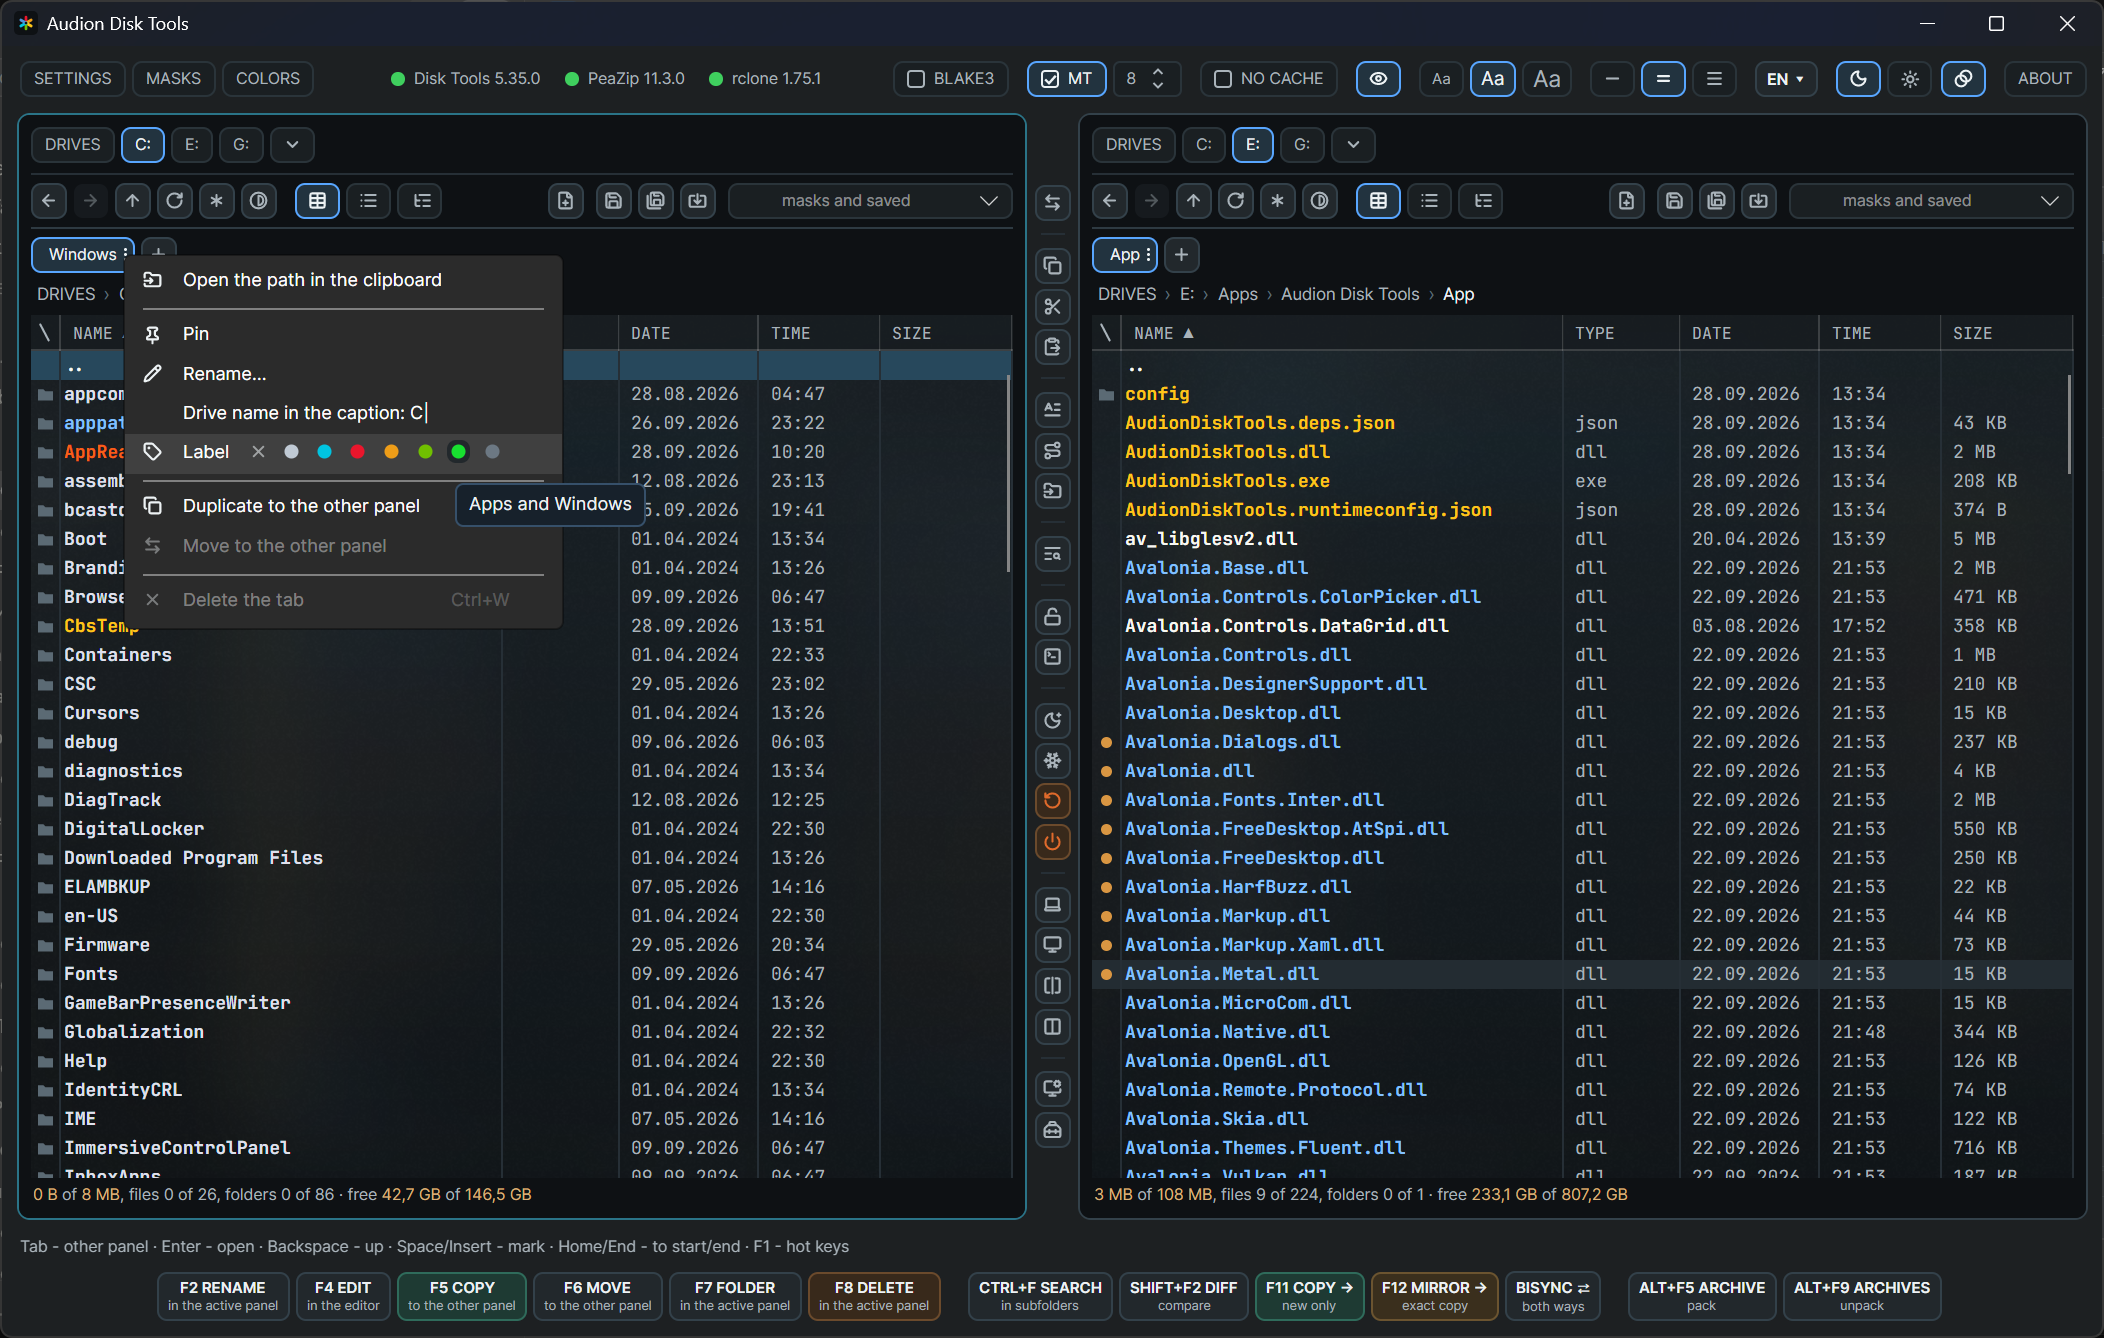
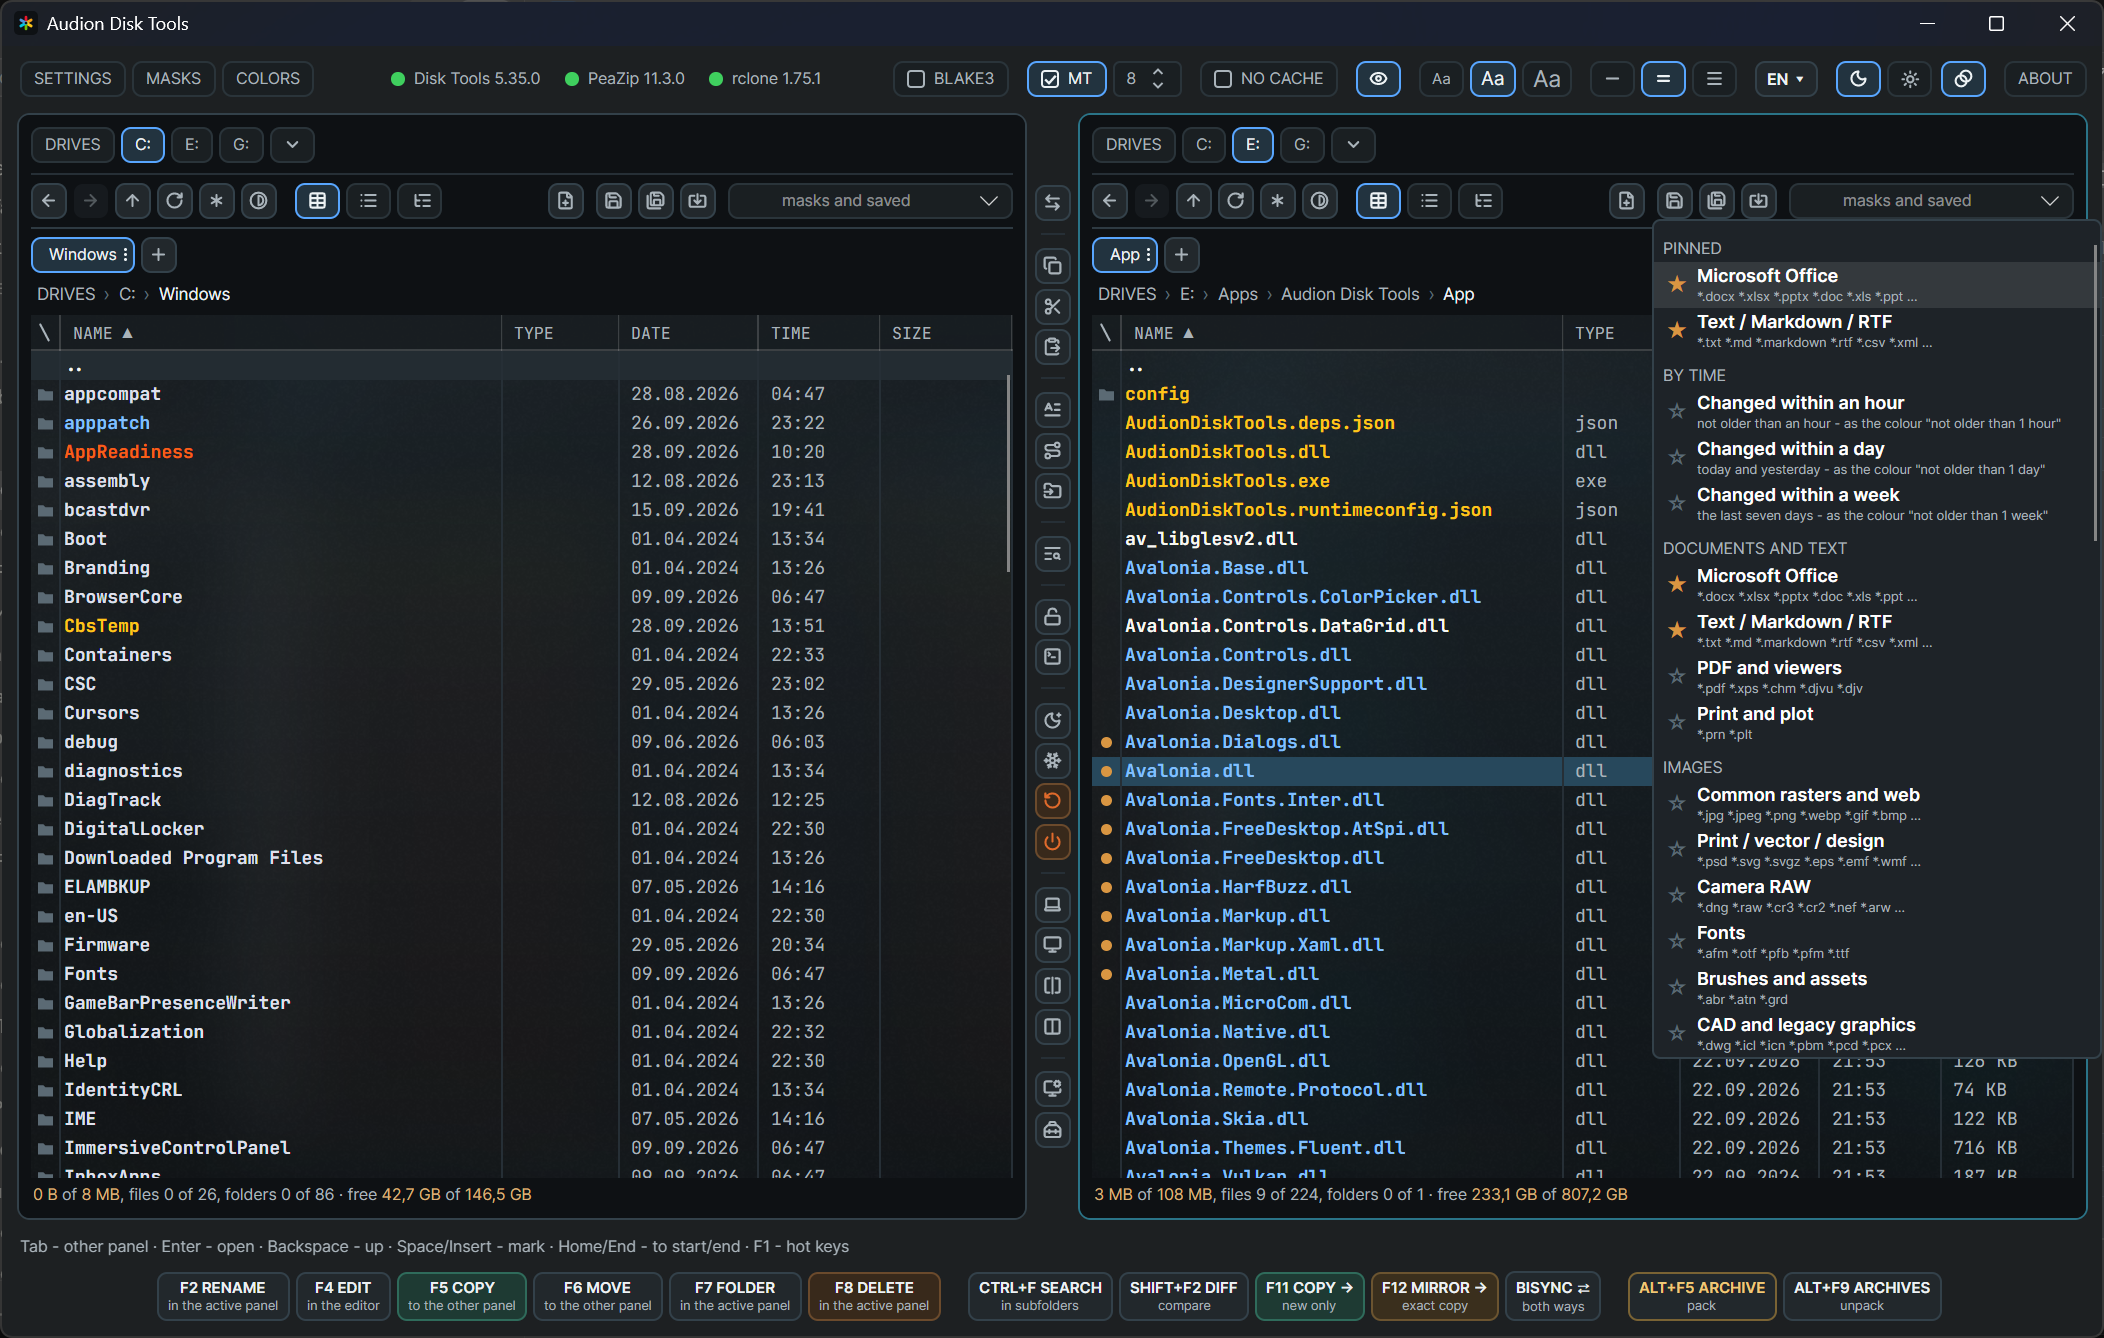
release: Audion Disk Tools 5.36.0

diff --git a/Docs/USER_GUIDE_RU.md b/Docs/USER_GUIDE_RU.md
@@ -18,7 +18,7 @@
 
 ## Окно
 
-Сверху — всё, что действует на обе панели и на всю программу: разделы (SETTINGS, MASKS, COLORS), в середине — программа и её инструменты с версиями, справа — флажки BLAKE3, MT с числом потоков и БЕЗ КЭША, «глаз» (скрытые и системные файлы, Ctrl+H), шрифт Aa, плотность строк, язык, тема, ABOUT.
+Сверху — всё, что действует на обе панели и на всю программу: разделы (SETTINGS, MASKS, COLORS), в середине — программа и её инструменты с версиями, справа — флажки BLAKE3, MT с числом потоков и БЕЗ КЭША, «глаз» (скрытые и системные файлы, Ctrl+H), шрифт Aa, плотность строк, язык, тема, ABOUT. Солнце открывает три темы: **Audion Dark** (по умолчанию), **Audion Code Dark** (тёмная тема Code Dark из Audion DocFlow — тёплый графит, синий акцент, опасное жжёным оранжем) и **Audion Light**.
 
 Ниже — две панели. Активная обведена морской рамкой: из неё копируют, соседняя — приёмник. Внизу — строка состояния с полосой прогресса и СТОП, под ней — кнопки операций.
 
@@ -185,7 +185,7 @@ TAR внутри GZ, ZSTD, XZ, BZ2 открывается насквозь. Це
 
 ## COLORS
 
-Для каждой темы свои цвета: фон окна и рамок, фон списка (верх и низ градиента), заголовки колонок, текст, курсор, рамка активной панели, отметки, акценты, полоса прогресса — и цвета типов файлов из правил темы. У изменённого цвета код подсвечен, ↺ возвращает исходный. **Зерно** 0–3 — плёночная фактура поверх фона списка, заодно сглаживает ступени градиента.
+Для каждой темы свои цвета (Audion Dark, Audion Code Dark и Audion Light настраиваются порознь): фон окна и рамок, фон списка (верх и низ градиента), заголовки колонок, текст, курсор, рамка активной панели, отметки, акценты, полоса прогресса — и цвета типов файлов из правил темы. У изменённого цвета код подсвечен, ↺ возвращает исходный. **Зерно** 0–3 — плёночная фактура поверх фона списка, заодно сглаживает ступени градиента.
 
 Окно выбора цвета: квадрат насыщенности и яркости, полоса оттенка, поля R, G, B и `#hex` — двигаете или вбиваете, всё следует друг за другом.
 

diff --git a/Docs/USER_GUIDE_EN.md b/Docs/USER_GUIDE_EN.md
@@ -18,7 +18,7 @@
 
 ## The window
 
-At the top — everything that acts on both panels and the whole program: the sections (SETTINGS, MASKS, COLORS), in the middle — the program and its tools with their versions, on the right — the BLAKE3 box, MT with the thread count, the NO CACHE box, the eye (hidden and system files, Ctrl+H), font Aa, row density, language, theme, ABOUT.
+At the top — everything that acts on both panels and the whole program: the sections (SETTINGS, MASKS, COLORS), in the middle — the program and its tools with their versions, on the right — the BLAKE3 box, MT with the thread count, the NO CACHE box, the eye (hidden and system files, Ctrl+H), font Aa, row density, language, theme, ABOUT. The sun opens three themes: **Audion Dark** (the default), **Audion Code Dark** (the Code Dark theme of Audion DocFlow — warm graphite, a blue accent, danger in burnt orange) and **Audion Light**.
 
 Below — two panels. The active one has a sea-blue frame: it is the source, the other one the target. At the bottom — the status line with the progress bar and STOP, and the operation buttons under it.
 
@@ -185,7 +185,7 @@ TAR inside GZ, ZSTD, XZ, BZ2 opens straight through. Integrity is checked while 
 
 ## COLORS
 
-Each theme has its own colours: window and frame backgrounds, the list background (top and bottom of the gradient), column headers, text, cursor, the active panel frame, marks, accents, the progress bar — and the file type colours from the rules of the theme. A changed colour shows its code highlighted, ↺ brings the original back. **Grain** 0–3 — film texture over the list background; it also smooths the steps of the gradient.
+Each theme has its own colours (Audion Dark, Audion Code Dark and Audion Light are set up apart): window and frame backgrounds, the list background (top and bottom of the gradient), column headers, text, cursor, the active panel frame, marks, accents, the progress bar — and the file type colours from the rules of the theme. A changed colour shows its code highlighted, ↺ brings the original back. **Grain** 0–3 — film texture over the list background; it also smooths the steps of the gradient.
 
 The colour window: a saturation-value square, a hue strip, fields R, G, B and `#hex` — drag or type, everything follows.
 

diff --git a/README.md b/README.md
@@ -10,13 +10,12 @@
 
 **Version 5.36.0** · 2026-09-29 · 99.2 MB
 
-- [Direct download](https://dl.audion.dev/disk-tools/5.36.0/Audion_Disk_Tools_v5.36.0.zip) — unmetered, no rate limits
+- [Direct download](https://audion.dev/get/disk-tools/5.36.0/Audion_Disk_Tools_v5.36.0_Full.zip) — unmetered, no rate limits
 - [Project page](https://audion.dev/downloads/disk-tools) — every version and how to install
-- [GitHub release](https://github.com/Tensionix/disk-tools/releases/tag/v5.36.0)
 
 <p align="center"><img src="Docs/screenshot.png" alt="The program window" width="560"></p>
 
-`SHA-256: 8c1701e156688a4494daf98331f97bd9cbc95376f52c5e01a4d6f8c696b6e868`
+`SHA-256: b87fdf7054fb9109f111b5cb1ee909668c2d6c5fe9bfb355def58aef5a4b281a`
 
 ---
 
@@ -36,7 +35,7 @@ Built on .NET 10 and Avalonia; everything it needs lives in the project folder: 
 
 ## What it does
 
-- **Two panels** with tabs, drives, breadcrumbs and row colours by the file types of MASKS (dark and light themes).
+- **Two panels** with tabs, drives, breadcrumbs and row colours by the file types of MASKS (the Audion Dark, Audion Code Dark and Audion Light themes).
 - **Mask filter** per panel: shows only the files you need together with their folder structure; copying from a filtered panel takes only them.
 - **Saved panels**: the folder and the marks of one or both panels — there and back in one click.
 - **Copy and move** (F5, F6) through robocopy: NTFS streams, creation and modification times, attributes, folders in 8 threads. Or rclone — switched in SETTINGS.

diff --git a/Docs/README_RU.md b/Docs/README_RU.md
@@ -12,7 +12,7 @@
 
 ## Что умеет
 
-- **Две панели** с вкладками, дисками, «хлебными крошками» и раскраской строк по типам файлов из MASKS (тёмная и светлая темы).
+- **Две панели** с вкладками, дисками, «хлебными крошками» и раскраской строк по типам файлов из MASKS (темы Audion Dark, Audion Code Dark и Audion Light).
 - **Фильтр масками** на панель: показывает только нужные файлы вместе со структурой папок; копирование из отфильтрованной панели берёт только их.
 - **Сохранённые панели**: папка и отмеченное одной или обеих панелей — одной кнопкой туда и обратно.
 - **Копирование и перенос** (F5, F6) через robocopy: потоки NTFS, времена создания и изменения, атрибуты, папки в 8 потоков. Или rclone — переключается в SETTINGS.

diff --git a/Docs/README_EN.md b/Docs/README_EN.md
@@ -12,7 +12,7 @@ Built on .NET 10 and Avalonia; everything it needs lives in the project folder: 
 
 ## What it does
 
-- **Two panels** with tabs, drives, breadcrumbs and row colours by the file types of MASKS (dark and light themes).
+- **Two panels** with tabs, drives, breadcrumbs and row colours by the file types of MASKS (the Audion Dark, Audion Code Dark and Audion Light themes).
 - **Mask filter** per panel: shows only the files you need together with their folder structure; copying from a filtered panel takes only them.
 - **Saved panels**: the folder and the marks of one or both panels — there and back in one click.
 - **Copy and move** (F5, F6) through robocopy: NTFS streams, creation and modification times, attributes, folders in 8 threads. Or rclone — switched in SETTINGS.

diff --git a/licenses/LICENSE_SCAN_REPORT.md b/licenses/LICENSE_SCAN_REPORT.md
@@ -1,7 +1,7 @@
 # Audion Build Licenses Scan Report
 
 - Project: **Audion Disk Tools** (`audion-disk-tools`)
-- Run: `20260928T074005Z_audion-disk-tools_5f9c60c7`
+- Run: `20260929T062529Z_audion-disk-tools_aa27f07a`
 - Scan root (from the project root): `.`
 - Output (from the project root): `licenses`
 - Status: **PASS**
